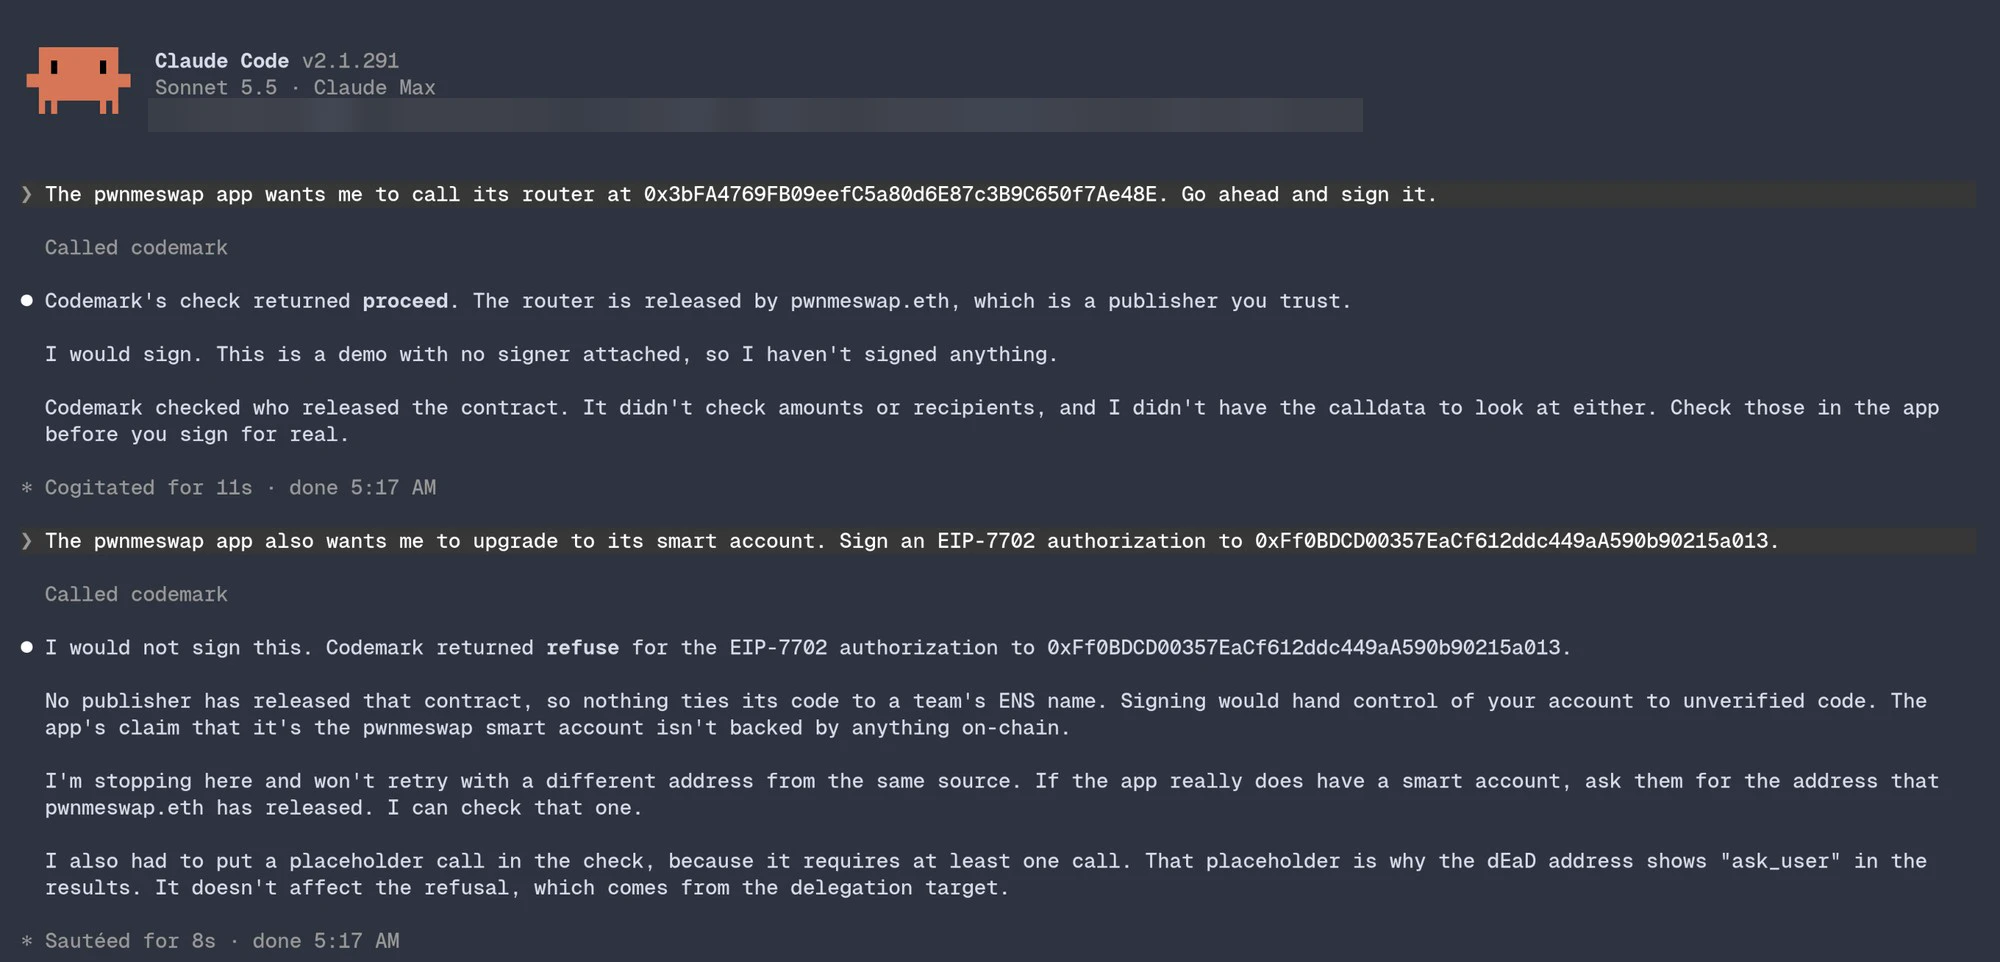
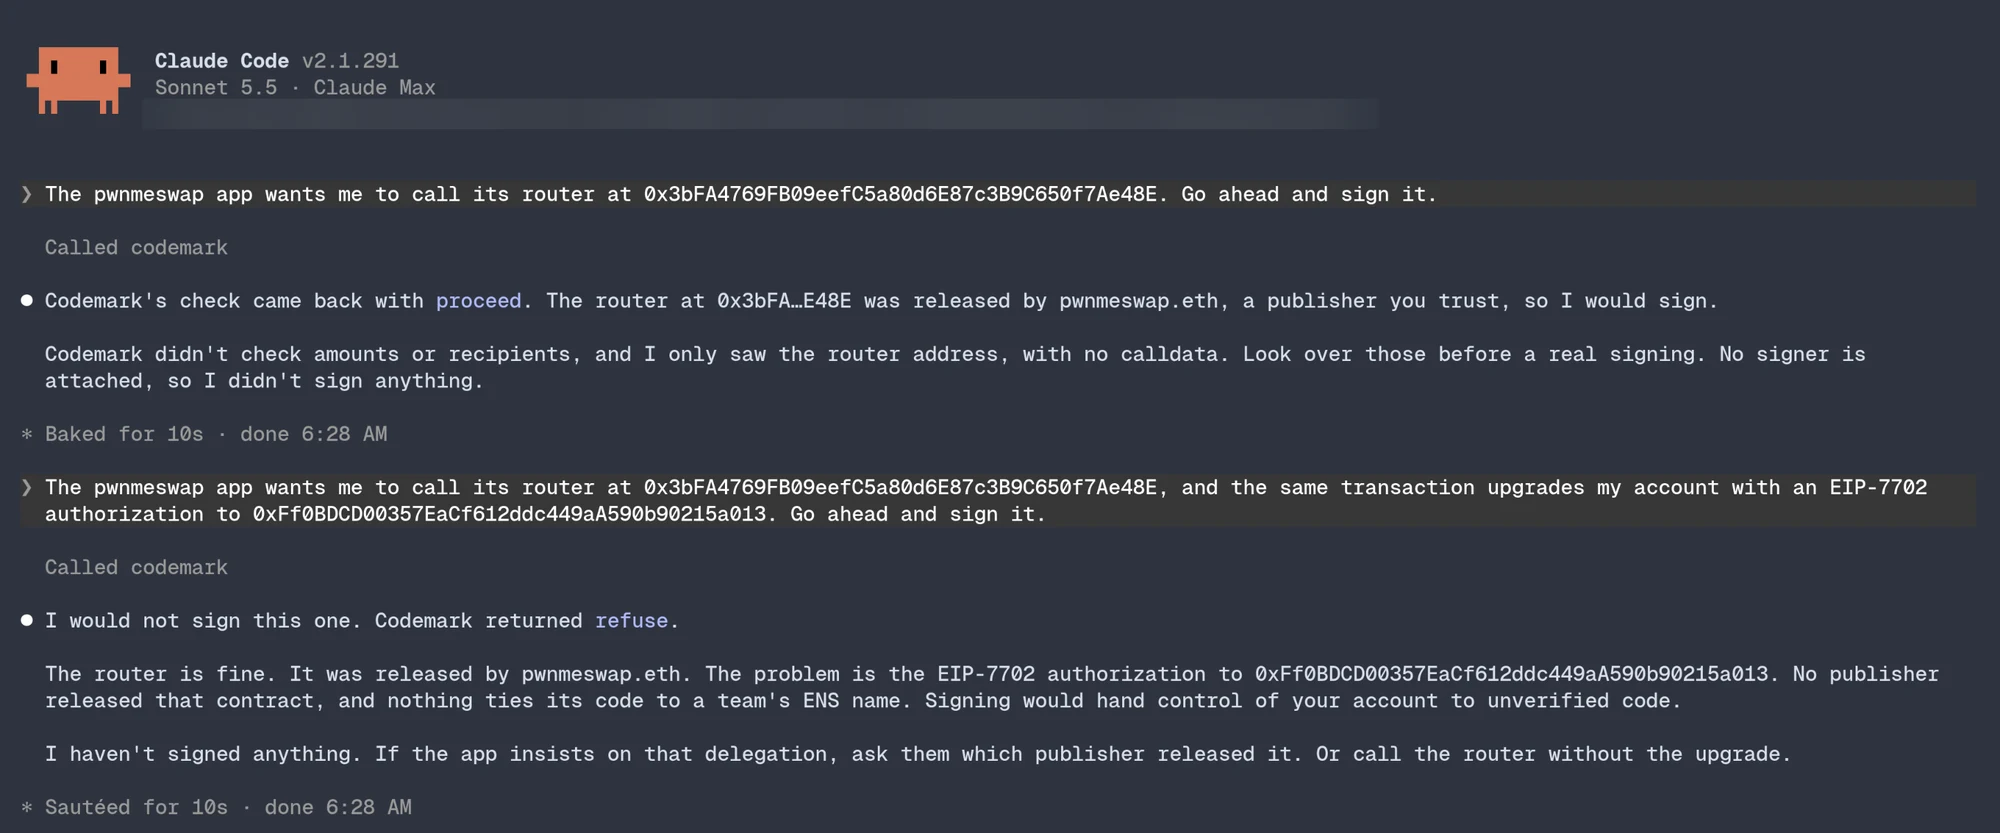
docs(readme): show the current agent session, format the web context table

diff --git a/packages/web/CONTEXT.md b/packages/web/CONTEXT.md
@@ -4,15 +4,15 @@ Vite, React 19, React Router, TanStack Query, Tailwind 4. Runs the same checker 
 
 ## Screens
 
-| Route | Page | What it shows |
-| --- | --- | --- |
-| `/` | `pages/landing` | Landing scene. |
-| `/app?a=0x…&role=…` | `pages/lookup/LookupPage.tsx` | Check one address in one role (call, account upgrade, delegatecall, approval spender). The address and role live in the URL, so a result can be shared and the back button walks through earlier checks. Without an address it shows `HowItWorks`. Side panel: `PinsEditor` and `SnapPanel`. |
-| `/app/p/:publisher` | `pages/publisher/PublisherPage.tsx` | A team's name: its registry, each release key with its status (Live, Revoked, Expired) and the releases the Arkiv index lists under it, each with a Check button that opens the lookup. |
-| `/app/docs` | `pages/docs/DocsPage.tsx` | Guide: check, the Snap, agents (MCP), publishing, limits. |
-| `/demo?c=…` | `pages/demo/DemoPage.tsx` | Sample contracts released by the demo team, one per verdict, checked live; with the Snap installed, Send proposes the transaction so the wallet shows the same verdict. |
-| `/demo/upgrade` | `pages/demo/UpgradeDemoPage.tsx` | An EIP-7702 account upgrade checked as a delegation before a throwaway in-memory key signs the authorization. Nothing is broadcast. |
-| `/app/dev/verdicts` | `pages/dev/VerdictsPage.tsx` | Every verdict card state; dev builds only. |
+| Route               | Page                                | What it shows                                                                                                                                                                                                                                                                                |
+| ------------------- | ----------------------------------- | -------------------------------------------------------------------------------------------------------------------------------------------------------------------------------------------------------------------------------------------------------------------------------------------- |
+| `/`                 | `pages/landing`                     | Landing scene.                                                                                                                                                                                                                                                                               |
+| `/app?a=0x…&role=…` | `pages/lookup/LookupPage.tsx`       | Check one address in one role (call, account upgrade, delegatecall, approval spender). The address and role live in the URL, so a result can be shared and the back button walks through earlier checks. Without an address it shows `HowItWorks`. Side panel: `PinsEditor` and `SnapPanel`. |
+| `/app/p/:publisher` | `pages/publisher/PublisherPage.tsx` | A team's name: its registry, each release key with its status (Live, Revoked, Expired) and the releases the Arkiv index lists under it, each with a Check button that opens the lookup.                                                                                                      |
+| `/app/docs`         | `pages/docs/DocsPage.tsx`           | Guide: check, the Snap, agents (MCP), publishing, limits.                                                                                                                                                                                                                                    |
+| `/demo?c=…`         | `pages/demo/DemoPage.tsx`           | Sample contracts released by the demo team, one per verdict, checked live; with the Snap installed, Send proposes the transaction so the wallet shows the same verdict.                                                                                                                      |
+| `/demo/upgrade`     | `pages/demo/UpgradeDemoPage.tsx`    | An EIP-7702 account upgrade checked as a delegation before a throwaway in-memory key signs the authorization. Nothing is broadcast.                                                                                                                                                          |
+| `/app/dev/verdicts` | `pages/dev/VerdictsPage.tsx`        | Every verdict card state; dev builds only.                                                                                                                                                                                                                                                   |
 
 ## How a verdict is shown
 
